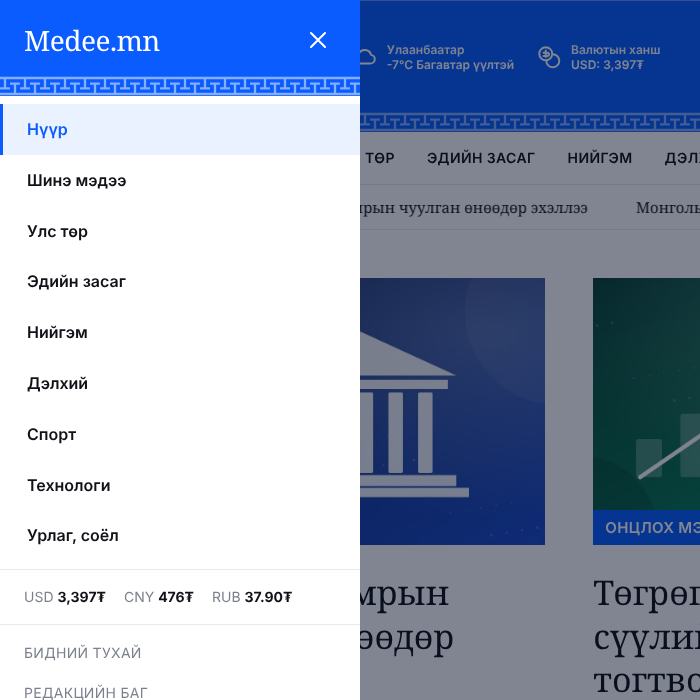
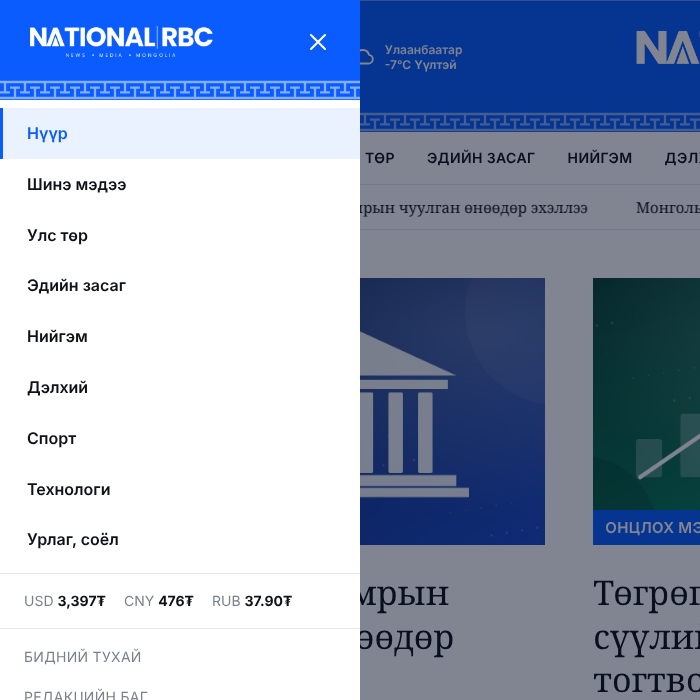
NATIONAL RBC лого нэмэв
- Rebuilt the logo cleanly (Poppins + vector Λ/triangle) as 3840 px transparent PNGs in branding/ (colour and white)
- Web-size white logo is the default for the blue header, drawer and navy footer when no logo is uploaded
- Default og:image (colour logo on white) for pages without their own picture

Claude-Session: https://claude.ai/code/session_01JvAJfAud3Ah2p7wG7HWkKJ

diff --git a/php/assets/css/style.css b/php/assets/css/style.css
@@ -53,7 +53,7 @@ button { font: inherit; }
 .icon-btn { background: none; border: 0; color: inherit; padding: 4px; cursor: pointer; display: inline-flex; }
 .logo { font-family: var(--serif); font-size: clamp(28px, 2.3vw, 40px); font-weight: 500; color: #fff; letter-spacing: -.5px; line-height: 1; white-space: nowrap; }
 .logo:hover { color: #fff; }
-.logo img { max-height: 64px; width: auto; }
+.logo img { max-height: 72px; width: auto; }
 .header-right { display: flex; justify-content: flex-end; align-items: center; }
 .header-search { display: flex; align-items: center; width: 100%; max-width: 540px; border-bottom: 1px solid rgba(255, 255, 255, .8); }
 .header-search input { flex: 1; min-width: 0; background: transparent; border: 0; color: #fff; padding: 10px 0; font: italic 15px var(--serif); outline: none; }

diff --git a/php/templates/header.php b/php/templates/header.php
@@ -2,6 +2,10 @@
 $pageTitle = !empty($meta['title']) ? $meta['title'] . ' | ' . $settings['site_name'] : $settings['site_name'] . ' — ' . $settings['site_tagline'];
 $desc = !empty($meta['description']) ? $meta['description'] : $settings['site_tagline'];
 $brand = brand_color();
+$logoUrl = site_logo_url();
+if (empty($meta['image'])) {
+    $meta['image'] = default_og_image();
+}
 $weather = ub_weather();
 $rates = currency_rates();
 $socials = array_filter([
@@ -58,7 +62,7 @@ $socials = array_filter([
         </div>
       </div>
       <a href="<?= url('/') ?>" class="logo" aria-label="<?= e($settings['site_name']) ?>">
-        <?php if ($settings['logo']): ?><img src="<?= e(media($settings['logo'])) ?>" alt="<?= e($settings['site_name']) ?>"><?php else: ?><?= e($settings['site_name']) ?><?php endif; ?>
+        <?php if ($logoUrl): ?><img src="<?= e($logoUrl) ?>" alt="<?= e($settings['site_name']) ?>"><?php else: ?><?= e($settings['site_name']) ?><?php endif; ?>
       </a>
       <div class="header-right">
         <form action="<?= url('/search') ?>" method="get" class="header-search" role="search">
@@ -94,7 +98,7 @@ $socials = array_filter([
 <div class="drawer-overlay" data-drawer-close></div>
 <nav class="drawer" id="drawer" aria-label="Үндсэн цэс" aria-hidden="true">
   <div class="drawer-head">
-    <a href="<?= url('/') ?>" class="logo logo-sm"><?php if ($settings['logo']): ?><img src="<?= e(media($settings['logo'])) ?>" alt="<?= e($settings['site_name']) ?>"><?php else: ?><?= e($settings['site_name']) ?><?php endif; ?></a>
+    <a href="<?= url('/') ?>" class="logo logo-sm"><?php if ($logoUrl): ?><img src="<?= e($logoUrl) ?>" alt="<?= e($settings['site_name']) ?>"><?php else: ?><?= e($settings['site_name']) ?><?php endif; ?></a>
     <button type="button" class="icon-btn" data-drawer-close aria-label="Цэс хаах"><?= icon('close', 28) ?></button>
   </div>
   <ul class="drawer-nav">

diff --git a/php/templates/admin/settings.php b/php/templates/admin/settings.php
@@ -15,7 +15,7 @@
     <label>Үндсэн өнгө <small>толгой хэсэг, товч, холбоосын өнгө</small>
       <span class="color-row"><input type="color" name="brand_color" value="<?= e(brand_color()) ?>"><code><?= e(brand_color()) ?></code></span></label>
     <label>Лого <small>PNG (тунгалаг дэвсгэртэй), өндөр нь 80-120px байхад тохиромжтой. Байхгүй бол сайтын нэр бичигдэнэ.</small>
-      <?php if ($settings['logo']): ?><span class="logo-preview" style="background: <?= e(brand_color()) ?>"><img src="<?= e(media($settings['logo'])) ?>" alt=""></span><?php endif; ?>
+      <?php if (site_logo_url()): ?><span class="logo-preview" style="background: <?= e(brand_color()) ?>"><img src="<?= e(site_logo_url()) ?>" alt=""></span><?php if (!$settings['logo']): ?><small> (анхдагч NATIONAL RBC цагаан лого)</small><?php endif; ?><?php endif; ?>
       <input type="file" name="logo_file" accept="image/png,image/jpeg,image/webp"></label>
     <?php if ($settings['logo']): ?><label class="check"><input type="checkbox" name="remove_logo" value="1"> Логог устгах</label><?php endif; ?>
     <label class="check"><input type="checkbox" name="ornaments" value="1" <?= $settings['ornaments'] !== '0' ? 'checked' : '' ?>> Монгол хээ угалз харуулах (алхан хээ, өлзий, эвэр угалз)</label>

diff --git a/php/templates/footer.php b/php/templates/footer.php
@@ -3,7 +3,7 @@
   <?php if (ornaments_enabled()): ?><?= ornament('ugalz', 'footer-ugalz') ?><?php endif; ?>
   <div class="container footer-grid">
     <div class="footer-brand">
-      <a href="<?= url('/') ?>" class="logo"><?php if ($settings['logo']): ?><img src="<?= e(media($settings['logo'])) ?>" alt="<?= e($settings['site_name']) ?>"><?php else: ?><?= e($settings['site_name']) ?><?php endif; ?></a>
+      <a href="<?= url('/') ?>" class="logo"><?php if ($logoUrl): ?><img src="<?= e($logoUrl) ?>" alt="<?= e($settings['site_name']) ?>"><?php else: ?><?= e($settings['site_name']) ?><?php endif; ?></a>
       <p><?= e($settings['footer_about'] !== '' ? $settings['footer_about'] : $settings['site_tagline']) ?></p>
       <?php if ($socials): ?><div class="socials"><?php foreach ($socials as $net => $link): ?><a href="<?= e($link) ?>" target="_blank" rel="noopener" aria-label="<?= e($net) ?>"><?= icon($net, 20) ?></a><?php endforeach; ?></div><?php endif; ?>
     </div>

diff --git a/php/inc/functions.php b/php/inc/functions.php
@@ -516,3 +516,18 @@ function safe_url($url)
     $url = trim((string) $url);
     return preg_match('#^https?://#i', $url) ? $url : '';
 }
+
+// Logo for the blue header, drawer and navy footer: the uploaded one, else the bundled white logo.
+function site_logo_url()
+{
+    if (setting('logo') !== '') {
+        return media(setting('logo'));
+    }
+    return is_file(ROOT . '/assets/img/nationalrbc-logo-white.png') ? asset('img/nationalrbc-logo-white.png') : '';
+}
+
+// Share image for pages without their own picture.
+function default_og_image()
+{
+    return is_file(ROOT . '/assets/img/og-default.jpg') ? absolute_url('/assets/img/og-default.jpg') : '';
+}
